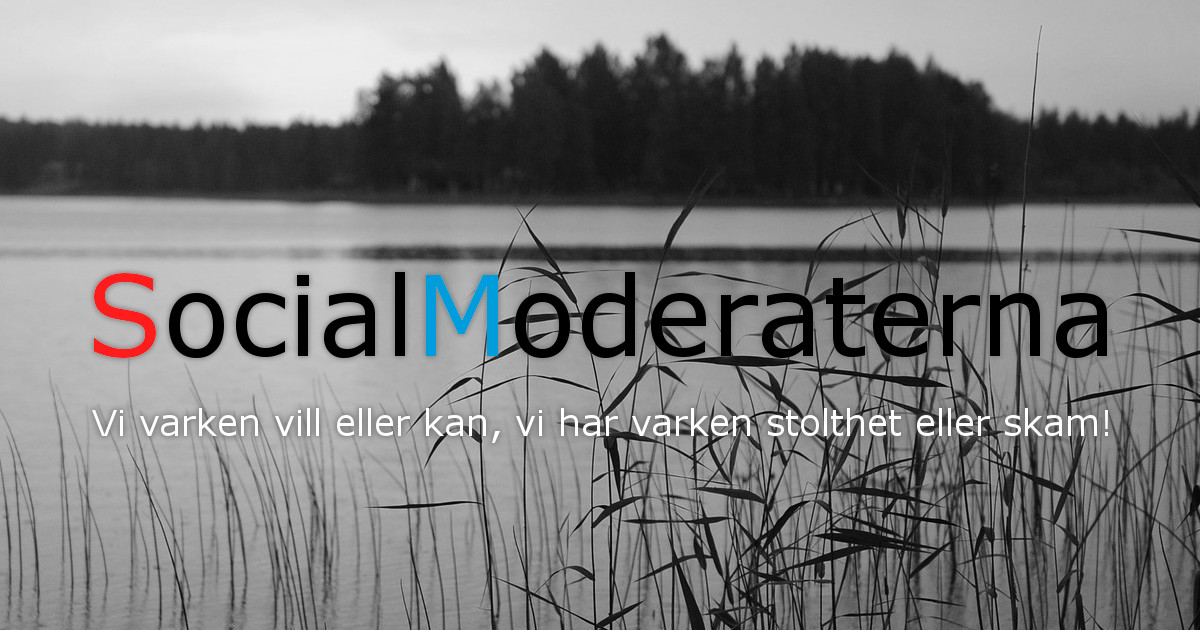
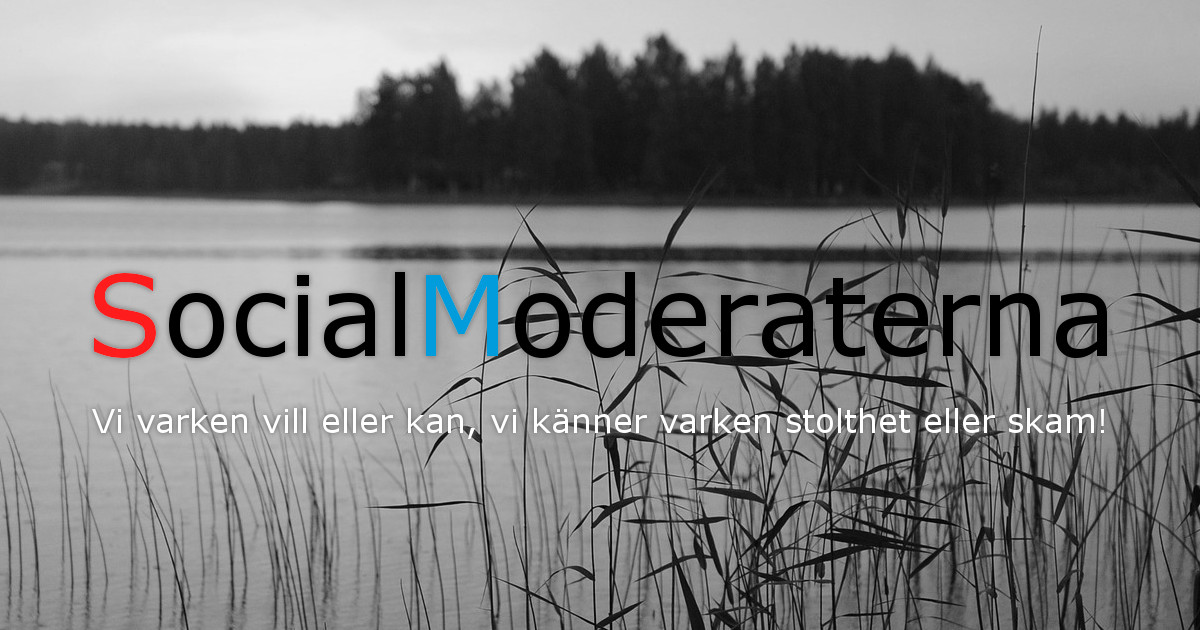
Updated the build structure for gh-pages because I am a plonker...

Changed region(s): [[0.0617, 0.6333, 0.925, 0.6937]]

diff --git a/index.html b/index.html
@@ -1,1 +1,1 @@
-<!DOCTYPE html><html><head><meta charset=utf-8><meta name=viewport content="width=device-width,initial-scale=1"><meta name=viewport content="width=device-width,initial-scale=1"><meta property=og:title content=SocialModeraterna><meta property=og:type content=website><meta property=og:description content="Vi varken vill eller kan, vi har varken stolthet eller skam!"><meta property=og:image content=""><title>socialmoderaterna</title><link href="https://fonts.googleapis.com/css?family=Roboto:300,400,500,700|Material+Icons" rel=stylesheet><link href=/static/css/app.3ae5deeffba718c08571023cd079baf4.css rel=stylesheet></head><body><div id=app></div><script type=text/javascript src=/static/js/manifest.2ae2e69a05c33dfc65f8.js></script><script type=text/javascript src=/static/js/vendor.06c7b7779e8a37c47764.js></script><script type=text/javascript src=/static/js/app.0da99bfd147427737507.js></script></body></html>
+<!DOCTYPE html><html><head><base href=https://morkalork.github.io/socialmoderaterna/ ><meta charset=utf-8><meta name=viewport content="width=device-width,initial-scale=1"><meta name=viewport content="width=device-width,initial-scale=1"><meta name=description content="SocialModeraterna! Vi varken vill eller kan, vi känner varken stolthet eller skam!"><meta property=og:title content=SocialModeraterna><meta property=og:type content=website><meta property=og:description content="SocialModeraterna! Vi varken vill eller kan, vi känner varken stolthet eller skam!"><meta property=og:image content=/static/social.jpg><meta name=twitter:card content=summary_large_image><meta name=twitter:site content=SocialModeraterna><meta name=twitter:creator content=@maffelu><meta name=twitter:title content=SocialModeraterna><meta name=twitter:description content="SocialModeraterna! Vi varken vill eller kan, vi känner varken stolthet eller skam!"><meta name=twitter:image content=https://uploads.democrats.org/Dev_assets/facebook_D_logo.png><title>socialmoderaterna</title><link href="https://fonts.googleapis.com/css?family=Roboto:300,400,500,700|Material+Icons" rel=stylesheet><link href=/static/css/app.3ae5deeffba718c08571023cd079baf4.css rel=stylesheet></head><body><div id=app></div><script type=text/javascript src=/static/js/manifest.2ae2e69a05c33dfc65f8.js></script><script type=text/javascript src=/static/js/vendor.06c7b7779e8a37c47764.js></script><script type=text/javascript src=/static/js/app.0da99bfd147427737507.js></script></body></html>
